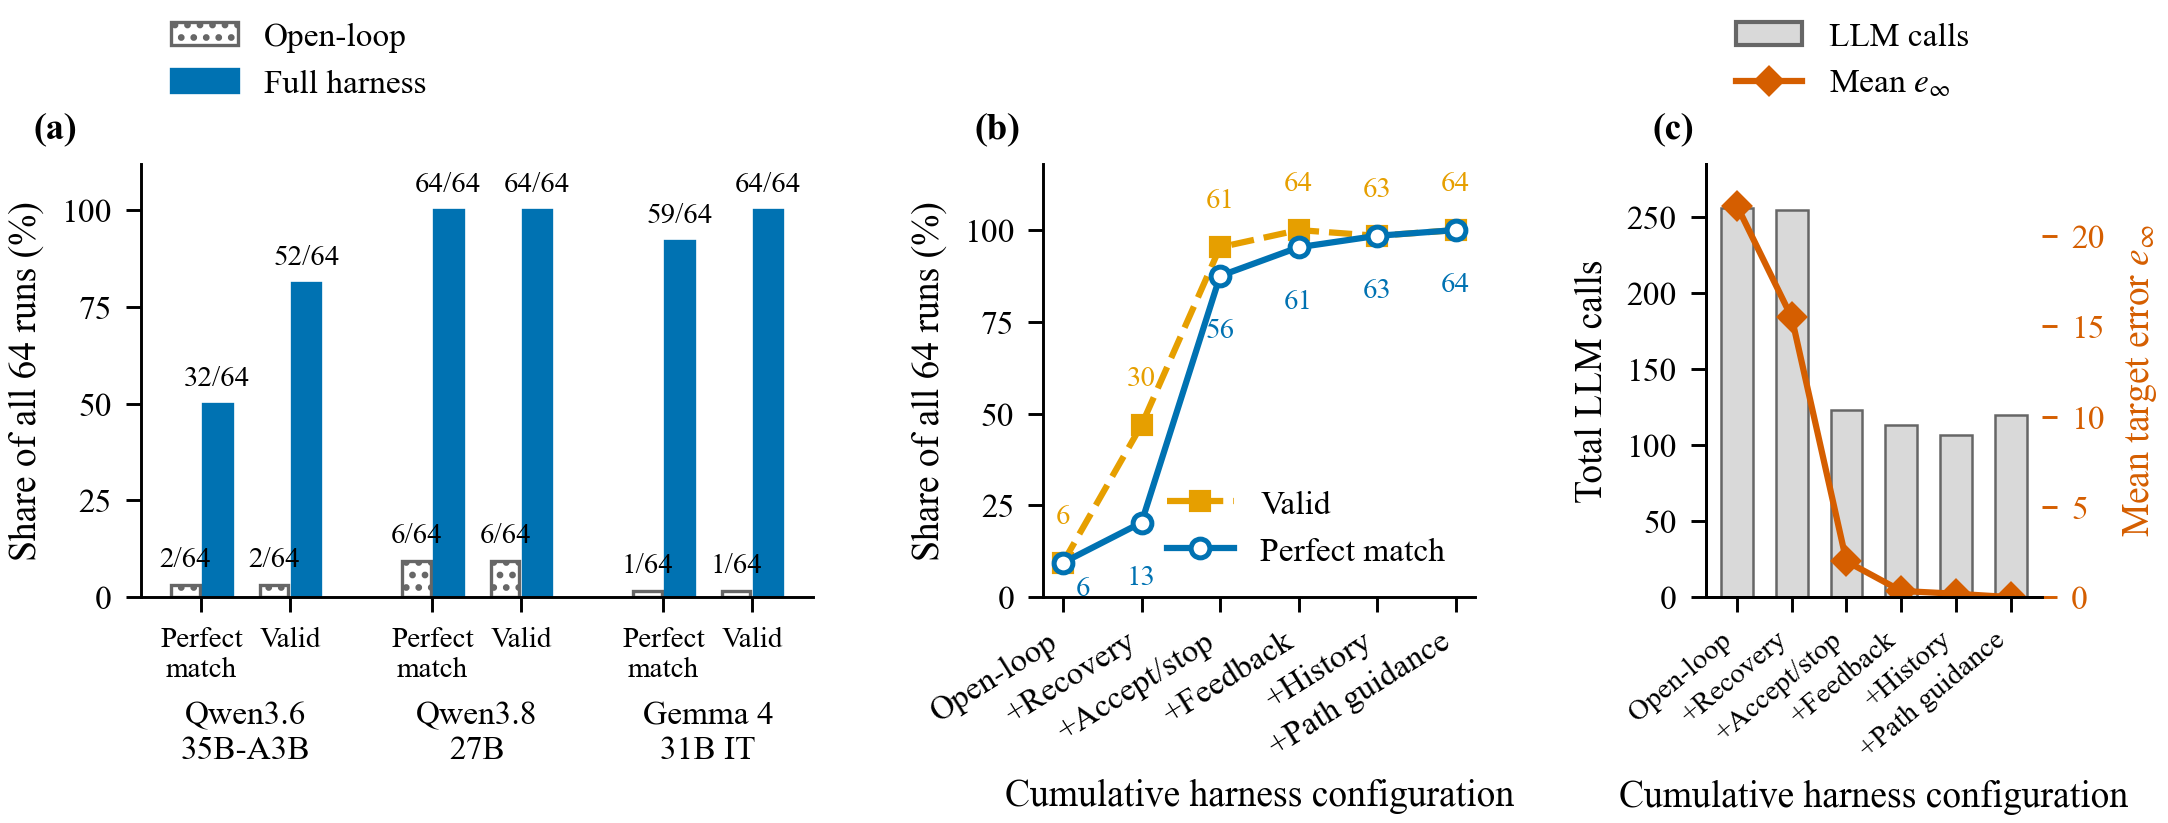
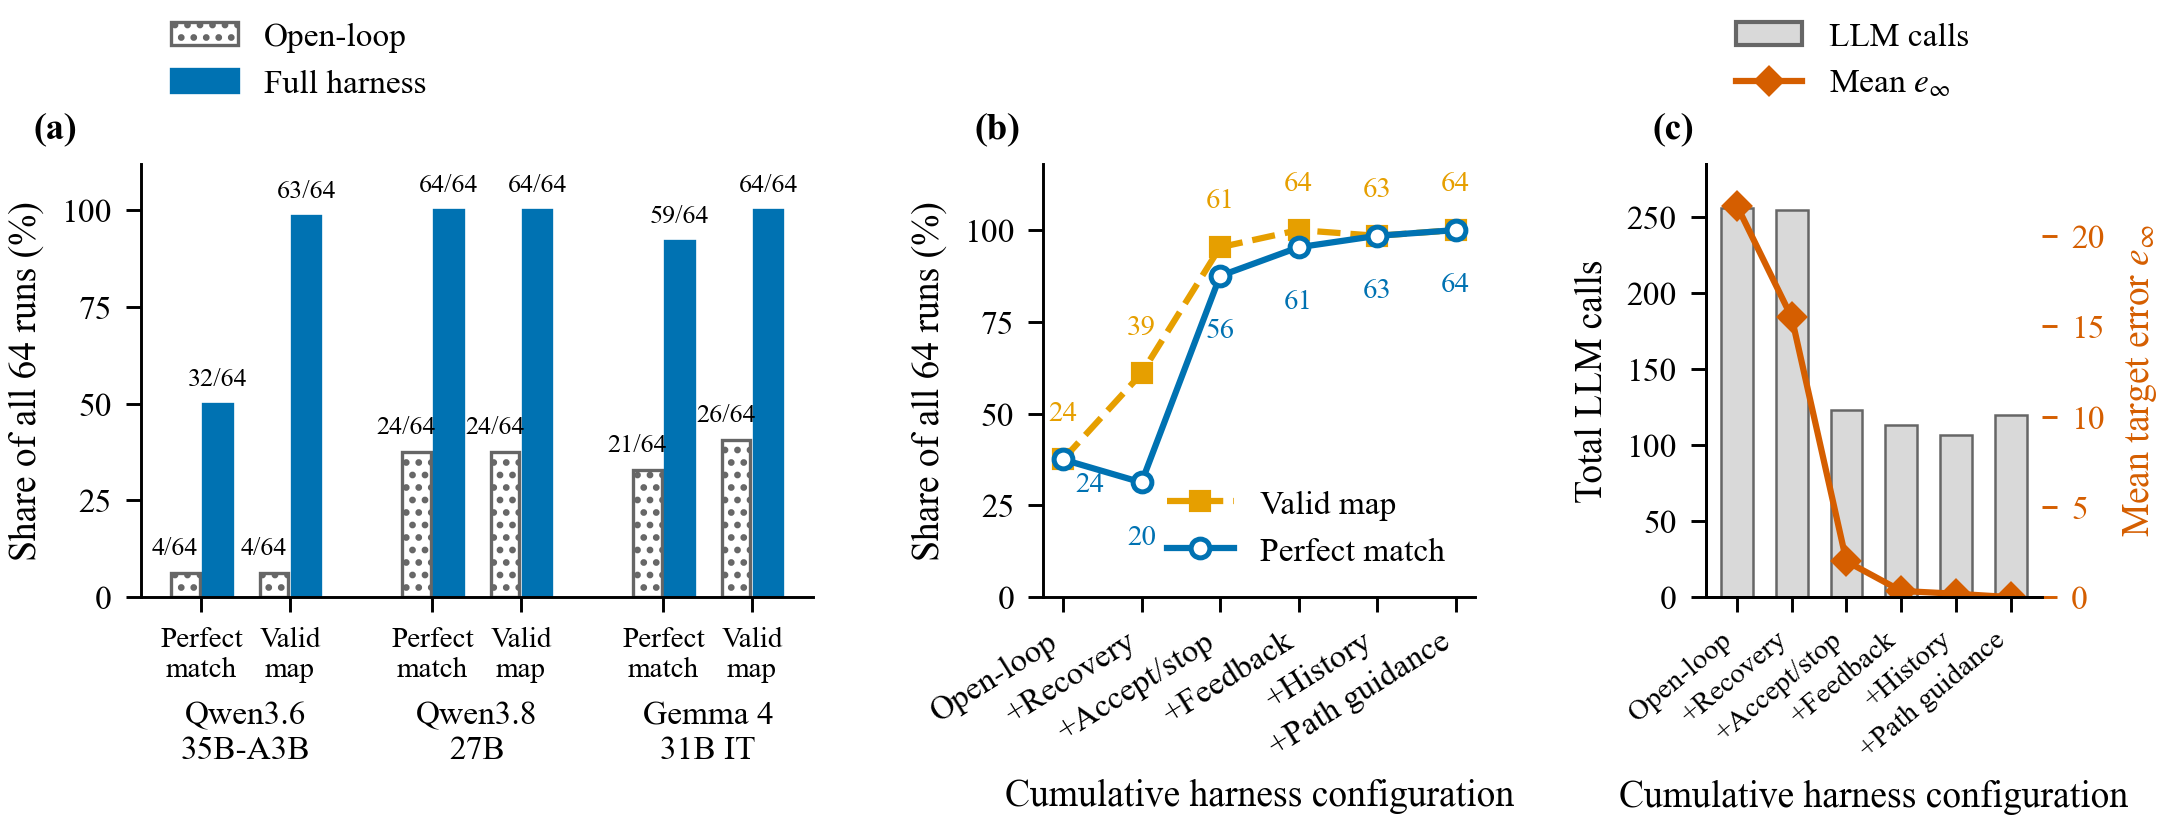
Score Zelda results by the final saved map
Perfect match now depends only on the final saved map, matching the
paper. Update the headline, stat cards, component and 721-target
numbers, the harness figure and the social preview image.

Claude-Session: https://claude.ai/code/session_01J3VVBwoj7SQ4EQa1qd1CxM

diff --git a/index.html b/index.html
@@ -365,7 +365,7 @@
     </div>
 
     <p class="abstract">
-      Large language models offer a natural-language interface to procedural content generation (PCG), letting designers request and revise levels through tools. Compact LLMs need less memory and compute, making them promising candidates for local, in-game PCG, yet reliable tool use and level revision remain hard for these models. We address this execution problem through <strong style="color:var(--hero-strong);font-weight:600">harness design</strong>: the harness constrains action formats, recovers unfinished responses through bounded follow-up calls, and evaluates candidate edits before deciding whether to save them. Feedback helps the model correct mistakes, while acceptance rules and early stopping retain successful edits. In a paired Zelda comparison using Qwen3.8-27B, the full harness raises the perfect-match rate from <strong style="color:var(--hero-strong);font-weight:600">9.38% (6/64) to 100% (64/64)</strong>, and the improvement holds for two other models; component studies show which parts of the harness drive it. The harness also helps preserve gameplay requirements during structural revision and supports natural-language control of gameplay events.
+      Large language models offer a natural-language interface to procedural content generation (PCG), letting designers request and revise levels through tools. Compact LLMs need less memory and compute, making them promising candidates for local, in-game PCG, yet reliable tool use and level revision remain hard for these models. We address this execution problem through <strong style="color:var(--hero-strong);font-weight:600">harness design</strong>: the harness constrains action formats, recovers unfinished responses through bounded follow-up calls, and evaluates candidate edits before deciding whether to save them. Feedback helps the model correct mistakes, while acceptance rules and early stopping retain successful edits. In a paired Zelda comparison using Qwen3.8-27B, the full harness raises the perfect-match rate from <strong style="color:var(--hero-strong);font-weight:600">37.5% (24/64) to 100% (64/64)</strong>, and the improvement holds for two other models; component studies show which parts of the harness drive it. The harness also helps preserve gameplay requirements during structural revision and supports natural-language control of gameplay events.
     </p>
   </div>
 </header>
@@ -494,30 +494,30 @@
   <div class="container">
     <div class="reveal">
       <p class="section-label">Reliable Level Editing</p>
-      <h2>From 6/64 to 64/64 Perfect Matches</h2>
+      <h2>From 24/64 to 64/64 Perfect Matches</h2>
       <p>
-        Each model is held fixed and evaluated on the same 64 Zelda targets: two requested path lengths (player&rarr;key and key&rarr;door, each 10&ndash;40 steps) on a 16&times;16 map, with one player, key, door, three enemies, and one connected region. An open-loop baseline saves every executable edit with no feedback or history; the full harness adds recovery, measured feedback, history, target-prioritized acceptance, path guidance and early stopping. A run is a <strong>perfect match</strong> only if the final saved map is valid, hits both path lengths exactly, and the episode has no unrecovered parsing or tool errors.
+        Each model is held fixed and evaluated on the same 64 Zelda targets: two requested path lengths (player&rarr;key and key&rarr;door, each 10&ndash;40 steps) on a 16&times;16 map, with one player, key, door, three enemies, and one connected region. An open-loop baseline saves every executable edit with no feedback or history; the full harness adds recovery, measured feedback, history, target-prioritized acceptance, path guidance and early stopping. A run is a <strong>perfect match</strong> if its final saved map is valid and hits both path lengths exactly.
       </p>
     </div>
 
     <div class="stats reveal">
       <div class="stat">
         <p class="stat-model">Qwen3.8-27B</p>
-        <p class="stat-value"><span class="from">6</span><span class="arrow">&rarr;</span>64<span style="font-size:16px;color:#999;font-weight:500"> /64</span></p>
-        <p class="stat-note">9.38% &rarr; 100%. +58 targets, no regressions. 95% CI for the gain: 82.8&ndash;96.9 pp.</p>
-        <div class="bar"><span class="b1" style="width:100%"></span><span class="b0" style="width:9.38%"></span></div>
+        <p class="stat-value"><span class="from">24</span><span class="arrow">&rarr;</span>64<span style="font-size:16px;color:#999;font-weight:500"> /64</span></p>
+        <p class="stat-note">37.5% &rarr; 100%. +40 targets, no regressions. 95% CI for the gain: 50.0&ndash;73.4 pp.</p>
+        <div class="bar"><span class="b1" style="width:100%"></span><span class="b0" style="width:37.5%"></span></div>
       </div>
       <div class="stat">
         <p class="stat-model">Gemma 4 31B IT</p>
-        <p class="stat-value"><span class="from">1</span><span class="arrow">&rarr;</span>59<span style="font-size:16px;color:#999;font-weight:500"> /64</span></p>
-        <p class="stat-note">1.56% &rarr; 92.19%. +58 targets, no regressions. 95% CI: 82.8&ndash;96.9 pp.</p>
-        <div class="bar"><span class="b1" style="width:92.19%"></span><span class="b0" style="width:1.56%"></span></div>
+        <p class="stat-value"><span class="from">21</span><span class="arrow">&rarr;</span>59<span style="font-size:16px;color:#999;font-weight:500"> /64</span></p>
+        <p class="stat-note">32.81% &rarr; 92.19%. +40 targets, 2 regressions. 95% CI: 45.3&ndash;71.9 pp.</p>
+        <div class="bar"><span class="b1" style="width:92.19%"></span><span class="b0" style="width:32.81%"></span></div>
       </div>
       <div class="stat">
         <p class="stat-model">Qwen3.6-35B-A3B</p>
-        <p class="stat-value"><span class="from">2</span><span class="arrow">&rarr;</span>32<span style="font-size:16px;color:#999;font-weight:500"> /64</span></p>
-        <p class="stat-note">3.13% &rarr; 50%. +30 targets, no regressions. 95% CI: 34.4&ndash;59.4 pp.</p>
-        <div class="bar"><span class="b1" style="width:50%"></span><span class="b0" style="width:3.13%"></span></div>
+        <p class="stat-value"><span class="from">4</span><span class="arrow">&rarr;</span>32<span style="font-size:16px;color:#999;font-weight:500"> /64</span></p>
+        <p class="stat-note">6.25% &rarr; 50%. +28 targets, no regressions. 95% CI: 31.2&ndash;56.2 pp.</p>
+        <div class="bar"><span class="b1" style="width:50%"></span><span class="b0" style="width:6.25%"></span></div>
       </div>
     </div>
 
@@ -528,18 +528,18 @@
 
     <figure class="reveal">
       <img src="assets/figures/fig7_harness_package.png" alt="Full harness comparison and cumulative component additions" class="zoomable">
-      <figcaption>(a) Open-loop vs. full harness for three models. (b&ndash;c) Adding components cumulatively for Qwen3.8: perfect matches, valid runs, total LLM calls and mean target error e<sub>&infin;</sub>.</figcaption>
+      <figcaption>(a) Open-loop vs. full harness for three models. (b&ndash;c) Adding components cumulatively for Qwen3.8: perfect matches, valid maps, total LLM calls and mean target error e<sub>&infin;</sub>.</figcaption>
     </figure>
 
     <div class="reveal">
       <h3>What makes the difference?</h3>
       <p>
-        Action recovery makes more responses executable, but <strong>keeping successful edits gives the largest jump</strong>: adding acceptance and early stopping raises perfect matches from 13/64 to 56/64&mdash;before the model sees any evaluator feedback. Feedback, history and path guidance then fix the remaining errors and bring the result to 64/64. A separate 2&times;2 comparison shows that either selective acceptance (56/64) or early stopping (59/64) alone is enough to protect successful results, versus 13/64 with neither.
+        Action recovery makes more responses executable, but <strong>keeping successful edits gives the largest jump</strong>: adding acceptance and early stopping raises perfect matches from 20/64 to 56/64&mdash;before the model sees any evaluator feedback. Feedback, history and path guidance then fix the remaining errors and bring the result to 64/64. A separate 2&times;2 comparison shows that either selective acceptance (57/64) or early stopping (59/64) alone is enough to protect successful results, versus 20/64 with neither.
       </p>
     </div>
     <div class="reveal">
       <p>
-        The harness is also <strong>cheaper</strong>: on the 64 targets it cuts Qwen3.8&rsquo;s model calls from 256 to 120 and output tokens from 1.80M to 0.42M. On a larger reserved set of <strong>721 Zelda targets</strong>, the fixed system reaches 99.03% (714/721) perfect matches and 99.86% valid runs, recovering 658 of 659 truncated responses. In a second domain, BinaryDoor, it reaches 20/32 perfect matches where the open-loop baseline solves none.
+        The harness is also <strong>cheaper</strong>: on the 64 targets it cuts Qwen3.8&rsquo;s model calls from 256 to 120 and output tokens from 1.80M to 0.42M. On a larger reserved set of <strong>721 Zelda targets</strong>, the fixed system reaches 99.03% (714/721) perfect matches with all 721 final maps valid, recovering 658 of 659 truncated responses. In a second domain, BinaryDoor, it reaches 20/32 perfect matches where the open-loop baseline solves none.
       </p>
     </div>
   </div>
